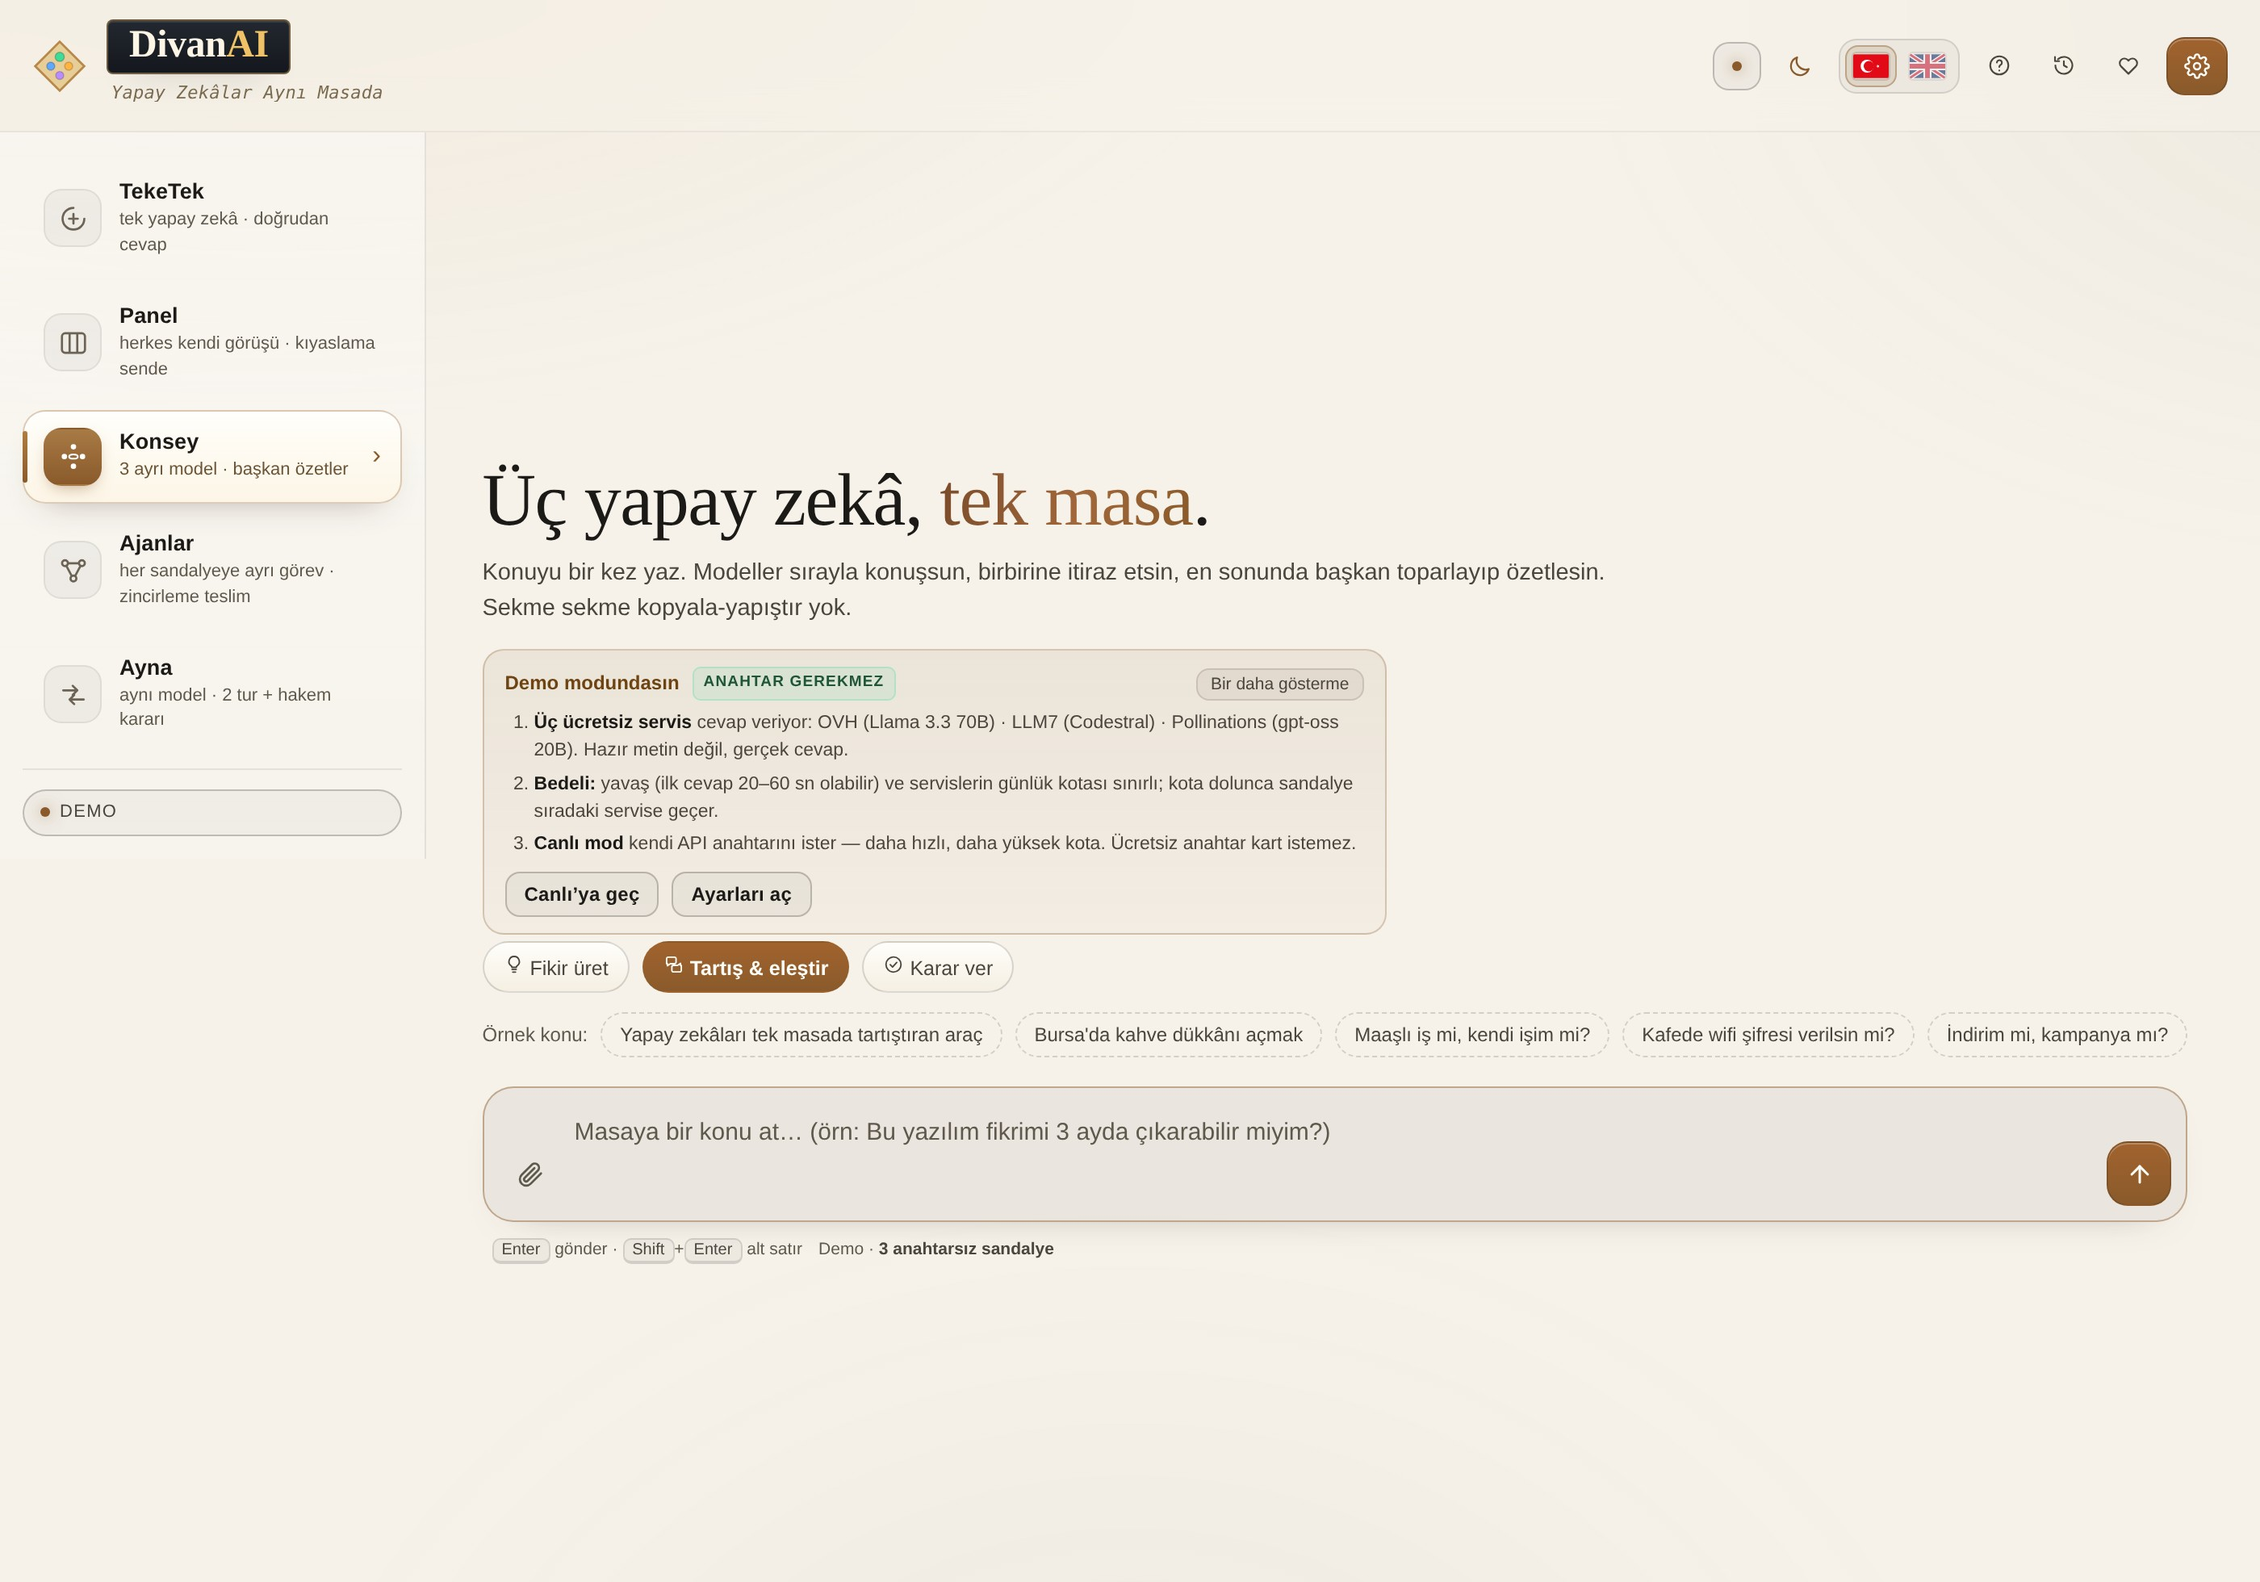
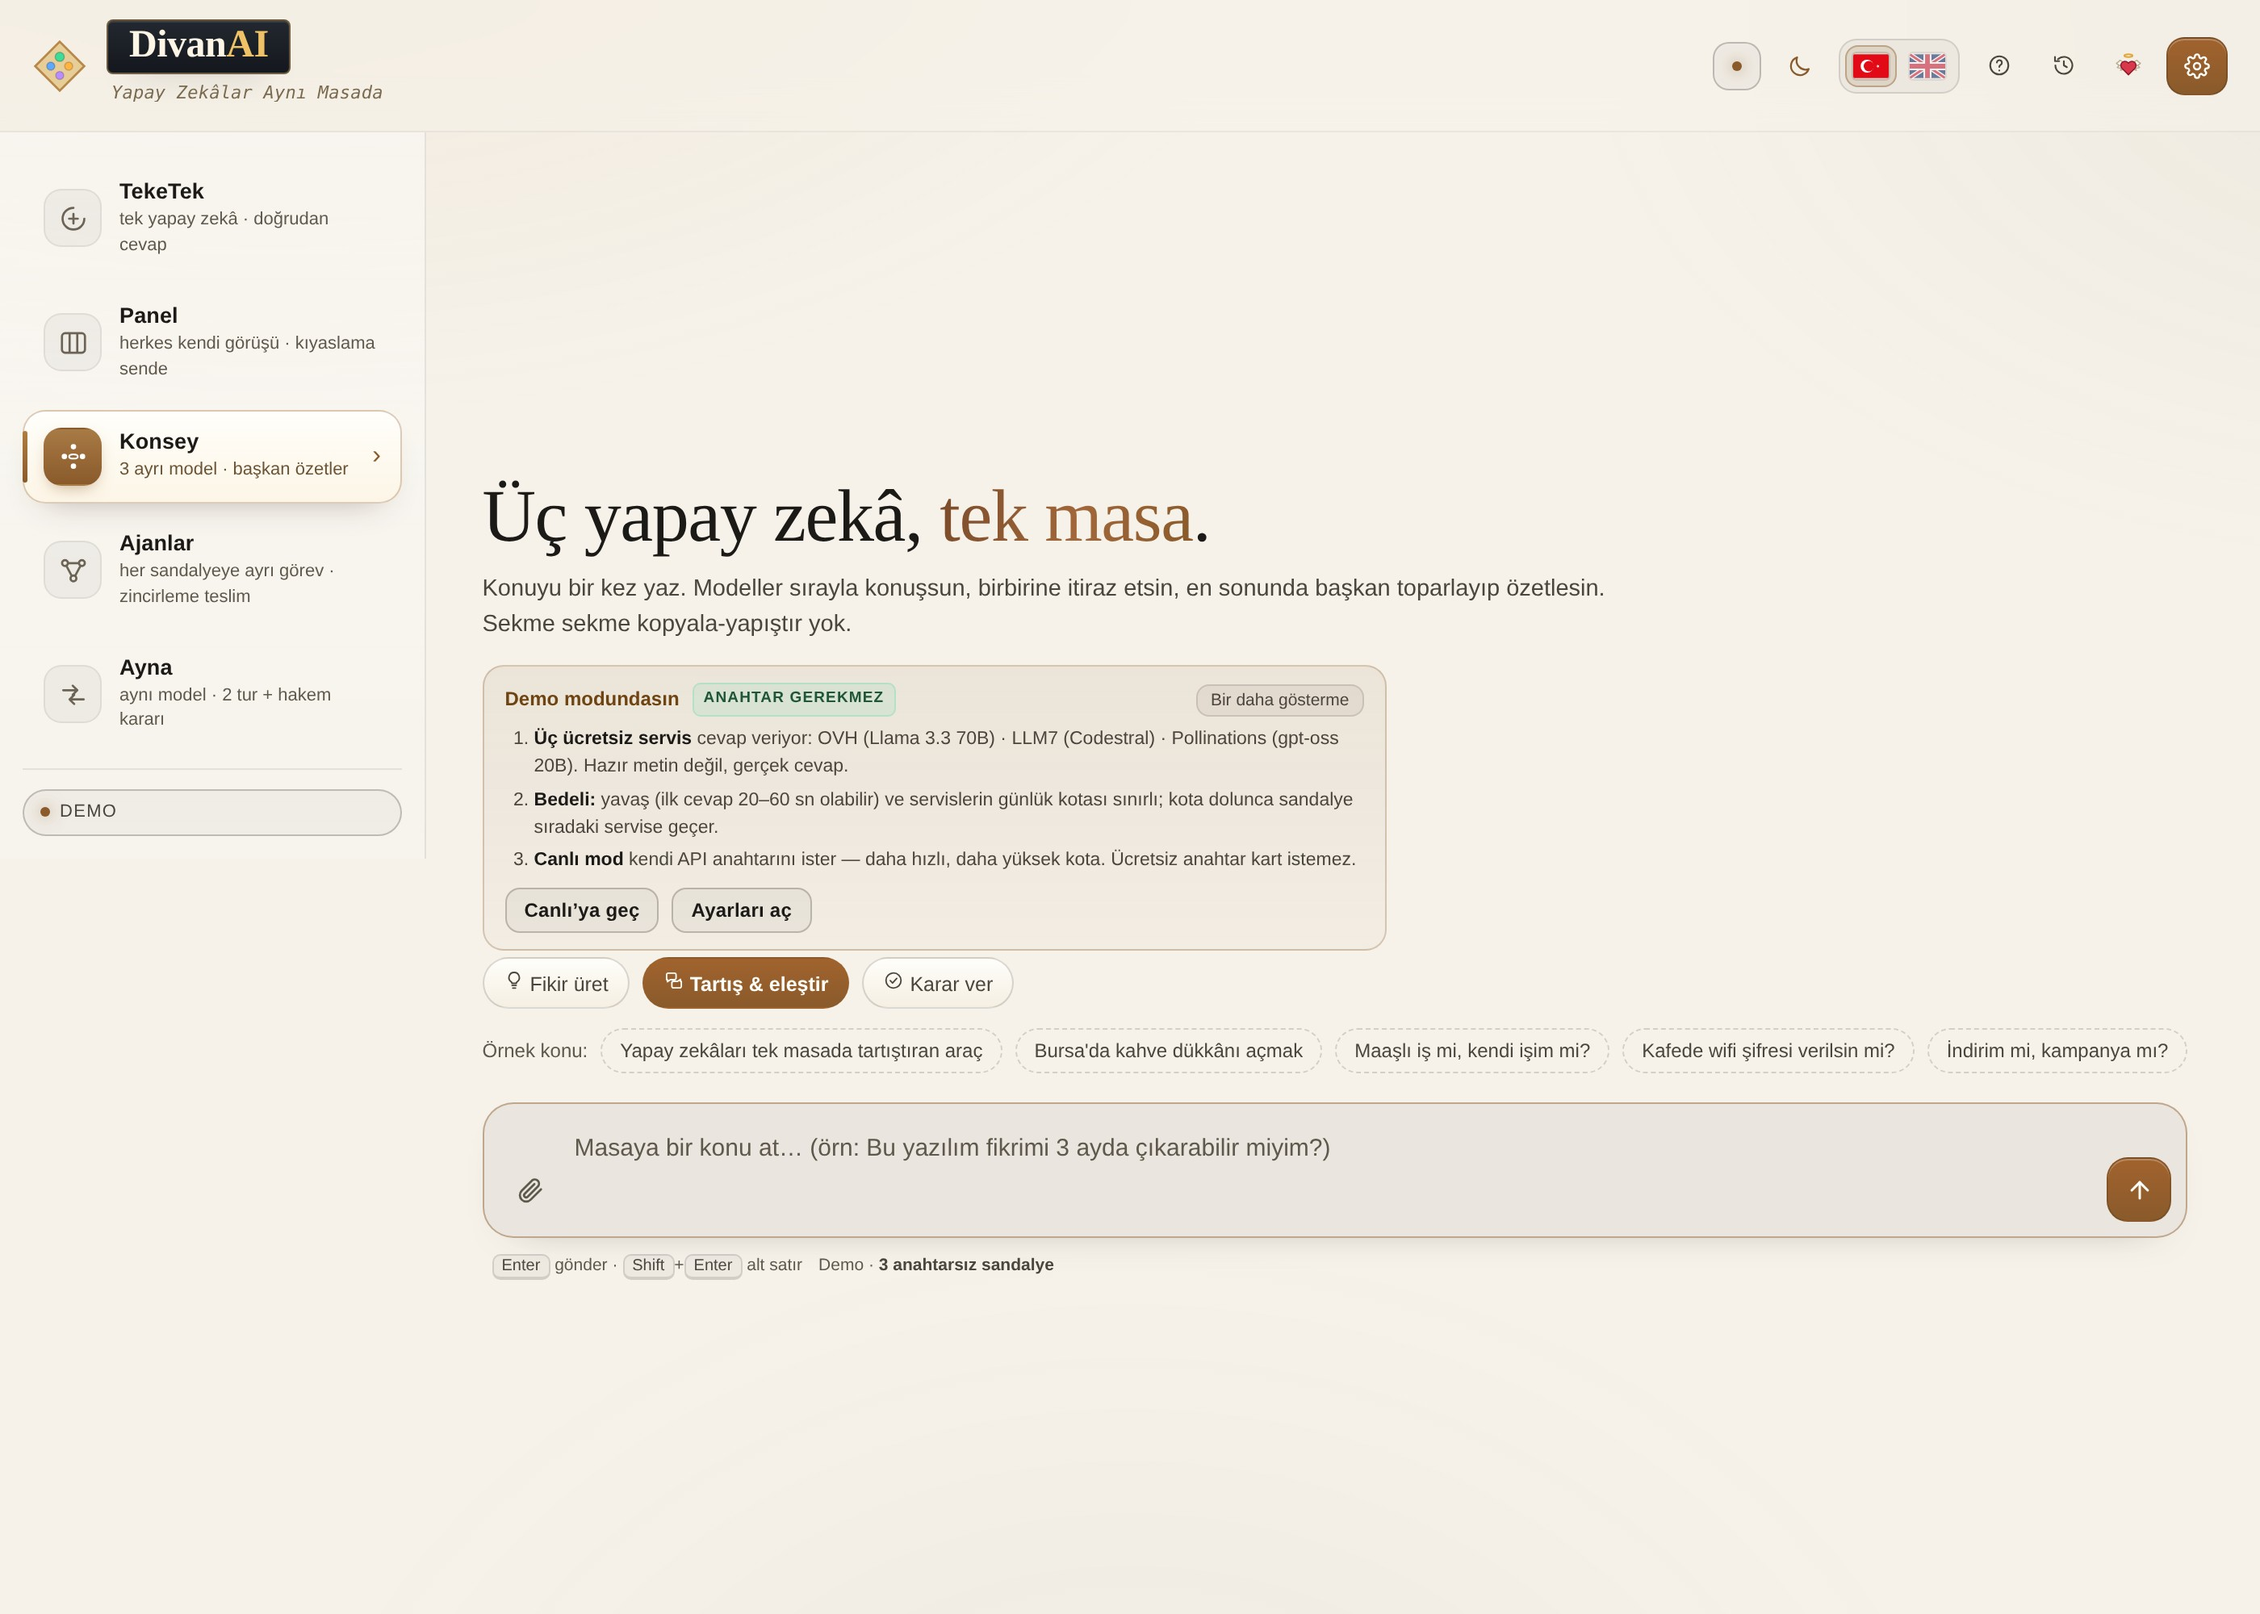
Add files via upload

diff --git a/index.html b/index.html
@@ -345,6 +345,16 @@ a{color:var(--link)}
 .btn.icon.soon{opacity:.55}
 .btn.icon.soon:hover{opacity:.8}
 
+/* ---------------- bağış kalbi (kanatlı · halkalı · kırmızı) ----------------
+   KOL 138: kullanıcı isteği — "bağış için kalp simgesi kırmızı olsun, kanatları olsun,
+   üstünde melek halkası olsun". Renkler sabit: tema değişse de kalp kırmızı kalır. */
+.icHeart{display:block;overflow:visible}
+.icHeart .hBody{fill:#d8384c;stroke:#8f1728;stroke-width:1.05;stroke-linejoin:round}
+.icHeart .hWing{fill:#fbf6ec;stroke:#b6a88e;stroke-width:.95;stroke-linejoin:round}
+.icHeart .hHalo{fill:none;stroke:#e0a636;stroke-width:1.35}
+#supportTopBtn:hover .icHeart .hWing,.supportBtn:hover .icHeart .hWing{fill:#fffdf7}
+#supportTopBtn:hover .icHeart .hBody,.supportBtn:hover .icHeart .hBody{fill:#e84358}
+
 /* destek paneli (kalp simgesi) */
 .supportPop{position:fixed;z-index:80;width:290px;padding:10px;border-radius:14px;
   background:var(--panelSolid);border:1px solid rgba(var(--w),.1);box-shadow:0 18px 42px rgba(0,0,0,.55)}
@@ -1625,7 +1635,7 @@ body.pickOpen{overflow:hidden}
         <svg width="15" height="15" viewBox="0 0 24 24" fill="none" stroke="currentColor" stroke-width="1.7" stroke-linecap="round" stroke-linejoin="round"><path d="M3.6 12a8.4 8.4 0 1 0 2.5-6"/><path d="M3.2 3.6v4.2h4.2"/><path d="M12 7.8V12l3 1.8"/></svg>
       </button>
       <button class="btn ghost icon" id="supportTopBtn" title="Destek" aria-label="Destek">
-        <svg width="15" height="15" viewBox="0 0 24 24" fill="none" stroke="currentColor" stroke-width="1.7" stroke-linecap="round" stroke-linejoin="round"><path d="M12 20.3 4.6 12.9a4.6 4.6 0 0 1 6.5-6.5l.9.9.9-.9a4.6 4.6 0 0 1 6.5 6.5z"/></svg>
+        <svg class="icHeart" width="17" height="17" viewBox="0 0 24 24" aria-hidden="true"><ellipse class="hHalo" cx="12" cy="3.55" rx="3.6" ry="1.22"/><path class="hWing" d="M8.5 11.9C8.1 9.9 6.6 8.4 4.5 7.5c-.7 1.2-1.7 2.1-3 2.7.9 1 1.9 1.6 3.1 1.9-1 .3-1.8.9-2.4 1.7 1.4.6 2.8.7 4.2.3-.7.6-1.2 1.3-1.4 2.2 1.6-.2 3-.9 4.1-2 0-.9-.2-1.7-.6-2.4z"/><path class="hWing" d="M15.5 11.9c.4-2 1.9-3.5 4-4.4.7 1.2 1.7 2.1 3 2.7-.9 1-1.9 1.6-3.1 1.9 1 .3 1.8.9 2.4 1.7-1.4.6-2.8.7-4.2.3.7.6 1.2 1.3 1.4 2.2-1.6-.2-3-.9-4.1-2 0-.9.2-1.7.6-2.4z"/><path class="hBody" d="M12 20.2 6.4 14.6a3.62 3.62 0 0 1 5.12-5.12l.48.48.48-.48a3.62 3.62 0 0 1 5.12 5.12z"/></svg>
       </button>
     </div>
       <button class="btn primary iconOnly" id="settingsBtn" type="button" title="Ayarlar" aria-label="Ayarlar">
@@ -1739,7 +1749,7 @@ body.pickOpen{overflow:hidden}
         </div>
         <div class="supportRow" id="supportRow" hidden>
           <a class="supportBtn" id="supportLink" href="#" target="_blank" rel="noopener">
-            <svg width="11" height="11" viewBox="0 0 24 24" fill="none" stroke="currentColor" stroke-width="1.8" stroke-linecap="round" stroke-linejoin="round" aria-hidden="true"><path d="M12 20.3 4.6 12.9a4.6 4.6 0 0 1 6.5-6.5l.9.9.9-.9a4.6 4.6 0 0 1 6.5 6.5z"/></svg>
+            <svg class="icHeart" width="13" height="13" viewBox="0 0 24 24" aria-hidden="true"><ellipse class="hHalo" cx="12" cy="3.55" rx="3.6" ry="1.22"/><path class="hWing" d="M8.5 11.9C8.1 9.9 6.6 8.4 4.5 7.5c-.7 1.2-1.7 2.1-3 2.7.9 1 1.9 1.6 3.1 1.9-1 .3-1.8.9-2.4 1.7 1.4.6 2.8.7 4.2.3-.7.6-1.2 1.3-1.4 2.2 1.6-.2 3-.9 4.1-2 0-.9-.2-1.7-.6-2.4z"/><path class="hWing" d="M15.5 11.9c.4-2 1.9-3.5 4-4.4.7 1.2 1.7 2.1 3 2.7-.9 1-1.9 1.6-3.1 1.9 1 .3 1.8.9 2.4 1.7-1.4.6-2.8.7-4.2.3.7.6 1.2 1.3 1.4 2.2-1.6-.2-3-.9-4.1-2 0-.9.2-1.7.6-2.4z"/><path class="hBody" d="M12 20.2 6.4 14.6a3.62 3.62 0 0 1 5.12-5.12l.48.48.48-.48a3.62 3.62 0 0 1 5.12 5.12z"/></svg>
             <span id="supportLabel">Destekle</span>
           </a>
           <span class="supportNote" id="supportNote" hidden></span>
@@ -9330,7 +9340,11 @@ function renderAjanSetup() {
           : '<label>' + window.T2('Geçiş', 'Passes') + ' <select id="ajanPass"><option value="1"' + (cfg.passes === 1 ? ' selected' : '') + '>1</option><option value="2"' + (cfg.passes === 2 ? ' selected' : '') + '>2</option><option value="3"' + (cfg.passes === 3 ? ' selected' : '') + '>3</option></select></label>') +
         '<label class="chk"><input type="checkbox" id="ajanPause"' + (cfg.pause ? ' checked' : '') + '> ' + window.T2('Her adımda dur', 'Pause at every step') + '</label>' +
         '<label class="ajanCountL">' + window.T2('Ajan sayısı', 'Agent count') + ' <select id="ajanCount">' + ajanCountOptions() + '</select></label>' +
-        (state.settings.active.includes('deepseek') ? ''
+        /* KOL 137: DEMO'da bu düğme yok. Demo sabit üç anahtarsız servistir (Pollinations ·
+           LLM7 · OVH); dördüncü anahtarsız sandalye yok, o yüzden düğme DeepSeek'i ekliyor
+           gibi görünüp ayarlar yeniden yüklenince kayboluyordu (deepseek'in modeli de
+           Pollinations'ınkiyle aynı çıkıyordu). Kafa karıştırıyordu → yalnız CANLI'da. */
+        ((isDemoMode() || state.settings.active.includes('deepseek')) ? ''
           : '<button type="button" class="mini ajanAddSeat" data-addseat="deepseek" title="' + esc(window.T2('DeepSeek’i beşinci sandalye olarak masaya ekler', 'Adds DeepSeek to the table as the fifth seat')) + '">＋ ' + window.T2('DeepSeek’i ekle', 'Add DeepSeek') + '</button>') +
         '<span class="ajanCost" id="ajanCost">' + ajanCostText() + '</span>' +
       '</div>' +
@@ -12995,6 +13009,8 @@ function boot() {
       const aseat = e.target.closest('[data-addseat]');
       if (aseat) {
         const pid = aseat.dataset.addseat;
+        /* KOL 137: demo sabit üç anahtarsız servistir; sandalye eklemek kalıcı olmaz. */
+        if (isDemoMode()) { toast(window.T2('Demo masası üç anahtarsız sandalyedir. Sandalye eklemek için Ayarlar → Canlı.', 'The demo table has three keyless seats. To add seats, switch to Live in Settings.'), 'warn'); return; }
         if (PROVIDERS[pid] && !state.settings.active.includes(pid)) {
           state.settings.active = PROVIDER_ORDER.filter(p => state.settings.active.includes(p) || p === pid);
           if (typeof clearAlts === 'function') clearAlts();

diff --git a/README.md b/README.md
@@ -436,7 +436,9 @@ Konsey ve Ayna bir soruyu **tartışır**; Ajanlar bir projeyi **yapar**.
 
 **Kaç ajan çalışsın (2…5).** Kurulumun sağ üstünde **Ajan sayısı** seçicisi: `2` · `3` · `4 (hepsi)`.
 Yalnız **daraltır** — ilk N açık sandalye çalışır, kadro silinmez; üstteki **≈ N istek** tahmini düşer.
-**＋ DeepSeek'i ekle** düğmesi tek tıkla beşinci sandalyeyi açar.
+**＋ DeepSeek'i ekle** düğmesi tek tıkla beşinci sandalyeyi açar. Düğme **yalnız canlı masada görünür**:
+demo masası sabit üç anahtarsız sandalyedir (Pollinations · LLM7 · OVH) ve orada eklenen sandalye
+kalıcı olmadığı için (yenileyince masaya 3'e döner) demo'da düğme gösterilmez.
 
 **Her adımda dur.** İşaretlersen her ajandan sonra **Devam**'a basman gerekir; yanlış giden zinciri
 yarıda kesebilirsin. **Geçiş: 1 / 2 / 3** ile aynı kadroyu birkaç kez koşturabilirsin.

diff --git a/README.en.md b/README.en.md
@@ -438,7 +438,9 @@ Council and Mirror **debate** a question; Agents **do** a project.
 
 **How many agents (2…5).** The **Agent count** picker at the top right of the setup: `2` · `3` ·
 `4 (all)`. It only **narrows** — the first N open seats run, the roster is not deleted; the **≈ N
-requests** estimate above drops. The **＋ Add DeepSeek** button opens the fifth seat in one click.
+requests** estimate above drops. The **＋ Add DeepSeek** button opens the fifth seat in one click. It appears on the **live table only**:
+the demo table is fixed at three keyless seats (Pollinations · LLM7 · OVH), and a seat added there did not
+survive a reload, so the button is hidden in demo mode.
 
 **Pause at every step.** Ticked, you press **Continue** after each agent, so you can cut a chain that is
 going wrong. **Passes: 1 / 2 / 3** runs the same roster several times.
